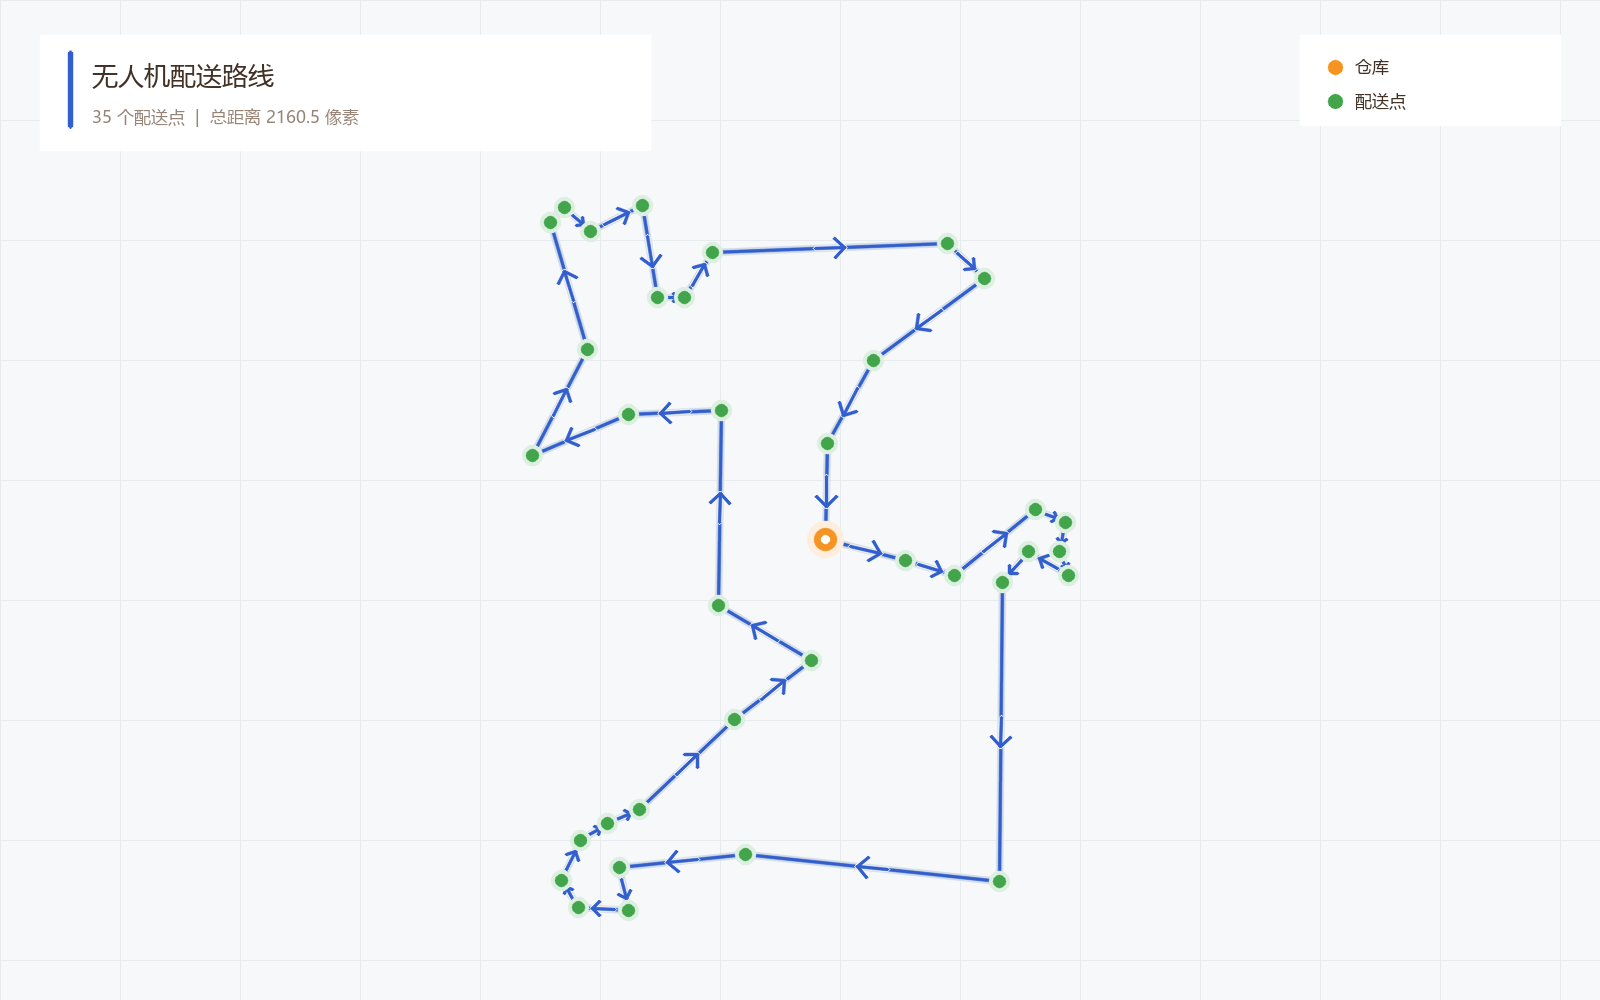
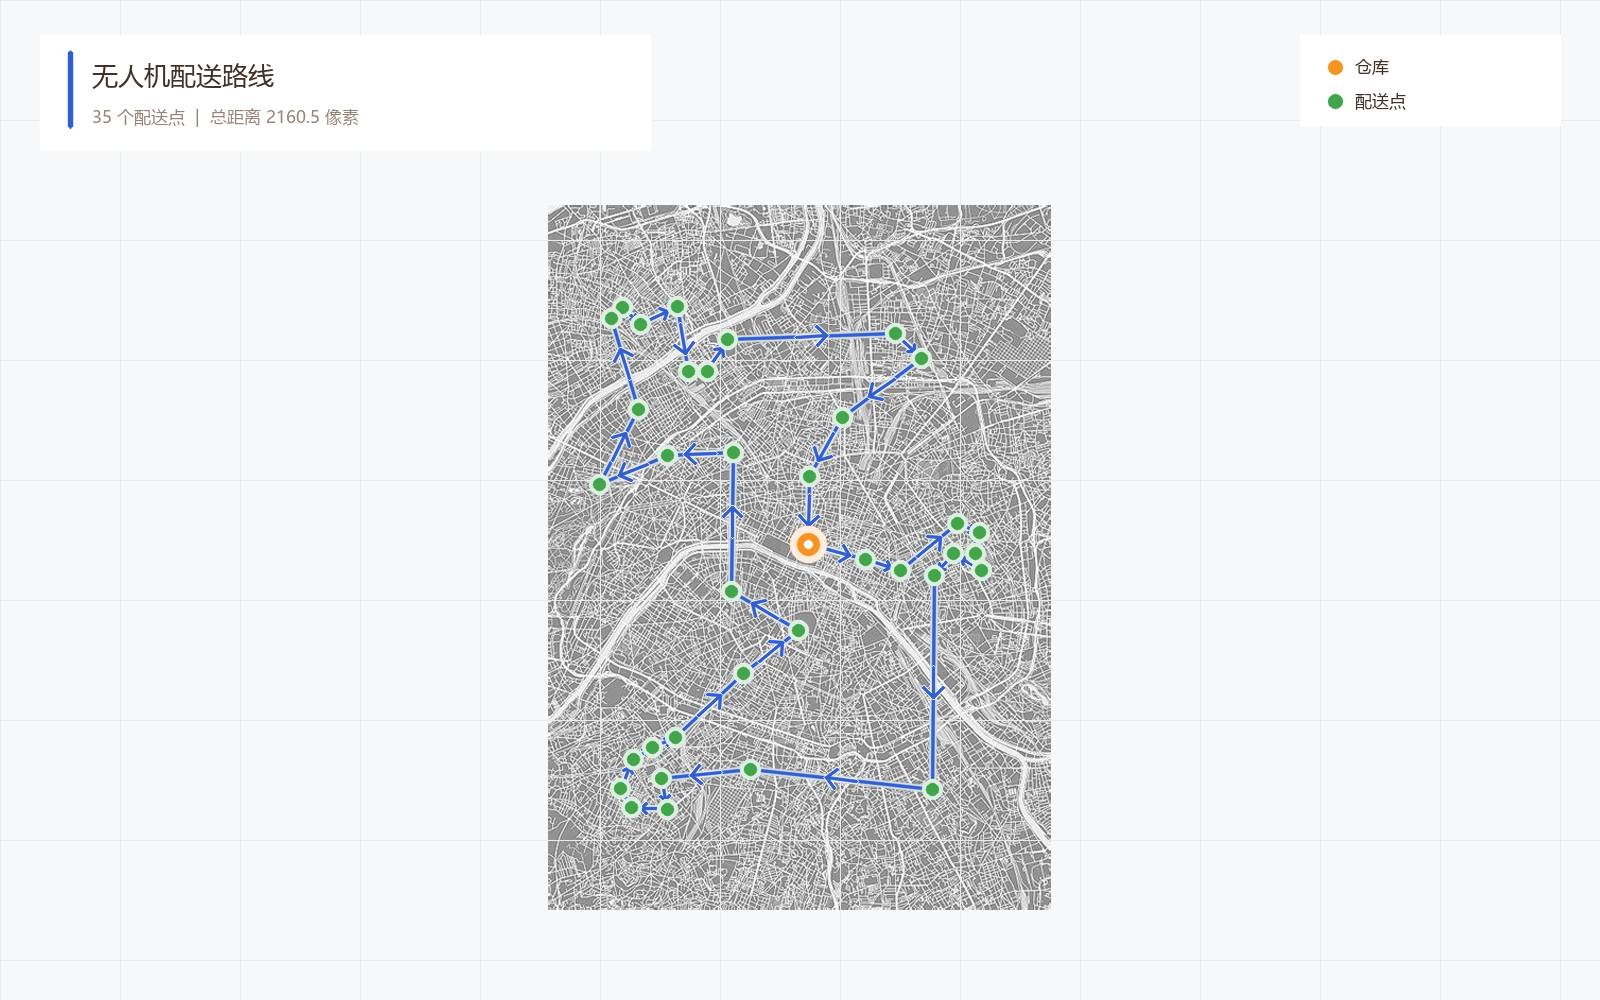
为第一题和第二题提供可视化支持

Changed region(s): [[0.3125, 0.186, 0.6875, 0.93]]

diff --git a/solver/problem_two/visualize_baseline_routes.py b/solver/problem_two/visualize_baseline_routes.py
@@ -1,0 +1,257 @@
+"""可视化敏感性分析中 alpha=1、beta=1 的基准配送路线。"""
+
+import json
+import re
+from pathlib import Path
+from typing import Any
+
+import matplotlib.pyplot as plt
+import numpy as np
+from PIL import Image, ImageEnhance
+from matplotlib.patches import FancyArrowPatch
+
+try:
+    from .resolve import MAP_SCALE_KM_PER_PIXEL
+except ImportError:
+    from resolve import MAP_SCALE_KM_PER_PIXEL
+
+
+Point = dict[str, Any]
+PROJECT_ROOT = Path(__file__).resolve().parents[2]
+POINTS_PATH = PROJECT_ROOT / "output" / "processed" / "points.json"
+MAP_PATH = PROJECT_ROOT / "others" / "input_picture.png"
+RESULTS_PATH = PROJECT_ROOT / "output" / "problems" / "two" / "sensitivity_results.txt"
+OUTPUT_PATH = PROJECT_ROOT / "output" / "problems" / "two" / "baseline_routes.png"
+ROUTE_COLORS = ("#2563eb", "#0d9488", "#f59e0b", "#e85d75", "#7c3aed")
+
+
+def load_baseline_result(results_path: Path) -> tuple[float, list[list[int]], list[float]]:
+    """读取 alpha=1、beta=1 场景的总航程、路线和单机航程。"""
+    text = results_path.read_text(encoding="utf-8")
+    blocks = re.split(r"\n\n(?=alpha=)", text)[1:]
+    for block in blocks:
+        alpha = float(re.search(r"alpha=([0-9.]+)", block).group(1))
+        beta = float(re.search(r"beta=([0-9.]+)", block).group(1))
+        if alpha != 1.0 or beta != 1.0:
+            continue
+        total = float(re.search(r"total_corrected_distance_km=([0-9.]+)", block).group(1))
+        routes = [
+            list(map(int, route.split(" -> ")))
+            for route in re.findall(r"drone_\d+_route=(.+)", block)
+        ]
+        costs = [
+            float(cost)
+            for cost in re.findall(r"drone_\d+_corrected_distance_km=([0-9.]+)", block)
+        ]
+        return total, routes, costs
+    raise ValueError("结果文件中不存在 alpha=1、beta=1 的基准场景。")
+
+
+def load_points(points_path: Path) -> tuple[Point, dict[int, Point]]:
+    """读取唯一仓库和按 ID 索引的配送点。"""
+    points: list[Point] = json.loads(points_path.read_text(encoding="utf-8"))
+    depots = [point for point in points if point.get("color") == "blue"]
+    if len(depots) != 1:
+        raise ValueError(f"应存在唯一蓝色仓库，实际数量为 {len(depots)}。")
+    return depots[0], {int(point["id"]): point for point in points}
+
+
+def draw_route(
+    axis: plt.Axes,
+    depot: Point,
+    route: list[int],
+    points: dict[int, Point],
+    color: str,
+) -> None:
+    """绘制一条带方向箭头的仓库闭环路线。"""
+    closed_route = [int(depot["id"])] + route + [int(depot["id"])]
+    for start_id, end_id in zip(closed_route, closed_route[1:]):
+        start = points[start_id]
+        end = points[end_id]
+        arrow = FancyArrowPatch(
+            (start["x_math"], start["y_math"]),
+            (end["x_math"], end["y_math"]),
+            arrowstyle="-|>",
+            mutation_scale=11,
+            linewidth=1.8,
+            color=color,
+            alpha=0.82,
+            shrinkA=7,
+            shrinkB=7,
+            connectionstyle="arc3,rad=0.015",
+            zorder=2,
+        )
+        axis.add_patch(arrow)
+
+    route_points = [points[point_id] for point_id in route]
+    axis.scatter(
+        [point["x_math"] for point in route_points],
+        [point["y_math"] for point in route_points],
+        s=58,
+        color=color,
+        edgecolor="white",
+        linewidth=1.5,
+        zorder=4,
+    )
+    for order, point in enumerate(route_points, start=1):
+        axis.text(
+            point["x_math"] + 5,
+            point["y_math"] + 5,
+            str(order),
+            fontsize=8,
+            color="#334155",
+            zorder=5,
+        )
+
+
+def create_visualization(
+    depot: Point,
+    points: dict[int, Point],
+    routes: list[list[int]],
+    costs: list[float],
+    total_cost: float,
+) -> None:
+    """创建基准多无人机路线地图与统计信息。"""
+    plt.rcParams["font.family"] = "Microsoft YaHei"
+    plt.rcParams["axes.unicode_minus"] = False
+    figure = plt.figure(figsize=(16, 10), dpi=180, facecolor="#f8fafc")
+    grid = figure.add_gridspec(
+        2,
+        2,
+        height_ratios=(0.13, 0.87),
+        width_ratios=(4.25, 1.25),
+        hspace=0.02,
+        wspace=0.06,
+    )
+    header_axis = figure.add_subplot(grid[0, :])
+    map_axis = figure.add_subplot(grid[1, 0])
+    info_axis = figure.add_subplot(grid[1, 1])
+
+    header_axis.set_facecolor("#f8fafc")
+    header_axis.axis("off")
+    header_axis.text(
+        0.025,
+        0.68,
+        "雷暴情景下的多无人机基准配送路线",
+        transform=header_axis.transAxes,
+        fontsize=23,
+        color="#0f2942",
+        fontweight="bold",
+        va="center",
+    )
+    header_axis.text(
+        0.025,
+        0.22,
+        "基于修正航程 F(i,j) 的 α=1 且 β=1 的最优方案",
+        transform=header_axis.transAxes,
+        fontsize=11,
+        color="#64748b",
+        va="center",
+    )
+    header_axis.plot(
+        [0.0, 1.0],
+        [0.02, 0.02],
+        transform=header_axis.transAxes,
+        color="#dbe4ee",
+        linewidth=1,
+    )
+
+    map_image = Image.open(MAP_PATH).convert("RGB")
+    map_image = ImageEnhance.Color(map_image).enhance(0.45)
+    map_image = ImageEnhance.Contrast(map_image).enhance(0.72)
+    map_image = ImageEnhance.Brightness(map_image).enhance(1.18)
+    map_array = np.asarray(map_image)
+    map_axis.imshow(
+        map_array,
+        extent=(0, map_image.width - 1, 0, map_image.height - 1),
+        origin="upper",
+        alpha=0.88,
+        zorder=0,
+    )
+    map_axis.imshow(
+        np.full((2, 2, 4), (1.0, 1.0, 1.0, 0.36)),
+        extent=(0, map_image.width - 1, 0, map_image.height - 1),
+        origin="lower",
+        zorder=1,
+    )
+    map_axis.set_facecolor("#ffffff")
+    map_axis.grid(color="#ffffff", linewidth=0.8, alpha=0.5)
+    map_axis.set_axisbelow(True)
+    for route, color in zip(routes, ROUTE_COLORS):
+        draw_route(map_axis, depot, route, points, color)
+
+    map_axis.scatter(
+        [depot["x_math"]],
+        [depot["y_math"]],
+        s=230,
+        marker="D",
+        color="#fb923c",
+        edgecolor="white",
+        linewidth=2.3,
+        zorder=7,
+    )
+    map_axis.text(
+        depot["x_math"] + 8,
+        depot["y_math"] + 8,
+        "仓库",
+        color="#9a3412",
+        fontsize=10,
+        fontweight="bold",
+        zorder=8,
+    )
+    map_axis.set_aspect("equal", adjustable="box")
+    map_axis.set_xlim(0, map_image.width - 1)
+    map_axis.set_ylim(0, map_image.height - 1)
+    map_axis.set_xlabel("横向坐标 / 像素", color="#64748b", labelpad=10)
+    map_axis.set_ylabel("纵向坐标 / 像素", color="#64748b", labelpad=10)
+    map_axis.tick_params(colors="#94a3b8")
+    for spine in map_axis.spines.values():
+        spine.set_color("#e2e8f0")
+
+    info_axis.set_facecolor("#f8fafc")
+    info_axis.axis("off")
+    info_axis.text(0.03, 0.94, "基准方案", fontsize=21, fontweight="bold", color="#0f2942")
+    info_axis.text(0.03, 0.885, "α = 1.0   β = 1.0", fontsize=11, color="#64748b")
+    info_axis.text(
+        0.03,
+        0.845,
+        f"比例尺 L = {MAP_SCALE_KM_PER_PIXEL:.3f} km/像素",
+        fontsize=10,
+        color="#64748b",
+    )
+    info_axis.text(0.03, 0.80, "总修正航程", fontsize=11, color="#64748b")
+    info_axis.text(0.03, 0.735, f"{total_cost:.2f} km", fontsize=25, fontweight="bold", color="#0f2942")
+    info_axis.plot([0.03, 0.95], [0.68, 0.68], color="#dbe4ee", linewidth=1)
+
+    y = 0.62
+    for index, (route, cost, color) in enumerate(zip(routes, costs, ROUTE_COLORS), start=1):
+        info_axis.scatter([0.06], [y], s=82, color=color, edgecolor="white", linewidth=1.2)
+        info_axis.text(0.13, y + 0.018, f"无人机 {index}", fontsize=11, fontweight="bold", color="#243b53")
+        info_axis.text(0.13, y - 0.018, f"7 个配送点   {cost:.2f} km", fontsize=9.5, color="#78909f")
+        y -= 0.105
+
+    info_axis.text(
+        0.03,
+        0.055,
+        "数字表示各无人机的访问顺序\n箭头表示实际飞行方向",
+        fontsize=9.5,
+        color="#78909f",
+        linespacing=1.55,
+    )
+    info_axis.set_xlim(0, 1)
+    info_axis.set_ylim(0, 1)
+    OUTPUT_PATH.parent.mkdir(parents=True, exist_ok=True)
+    figure.savefig(OUTPUT_PATH, bbox_inches="tight", facecolor=figure.get_facecolor())
+    plt.close(figure)
+
+
+def main() -> None:
+    """读取基准场景并保存路线可视化。"""
+    total_cost, routes, costs = load_baseline_result(RESULTS_PATH)
+    depot, points = load_points(POINTS_PATH)
+    create_visualization(depot, points, routes, costs, total_cost)
+    print(f"Saved baseline route visualization to: {OUTPUT_PATH}")
+
+
+if __name__ == "__main__":
+    main()

diff --git a/solver/problem_one/visualize.py b/solver/problem_one/visualize.py
@@ -10,6 +10,7 @@ from resolve import INPUT_POINT_PATH, PROJECT_ROOT, Point, load_points, solve_ts
 
 
 OUTPUT_PATH = PROJECT_ROOT / "output" / "problems" / "one" / "visual.png"
+MAP_PATH = PROJECT_ROOT / "others" / "input_picture.png"
 CANVAS_WIDTH = 1600
 CANVAS_HEIGHT = 1000
 HORIZONTAL_PADDING = 110
@@ -29,24 +30,25 @@ DELIVERY = (75, 165, 66)
 
 
 def project_points(points: list[Point]) -> list[tuple[int, int]]:
-    """Scale mathematical coordinates into the drawable canvas area."""
-    xs = [float(point["x_math"]) for point in points]
-    ys = [float(point["y_math"]) for point in points]
-    min_x, max_x = min(xs), max(xs)
-    min_y, max_y = min(ys), max(ys)
-    scale_x = (CANVAS_WIDTH - 2 * HORIZONTAL_PADDING) / max(max_x - min_x, 1.0)
-    scale_y = (CANVAS_HEIGHT - TOP_PADDING - BOTTOM_PADDING) / max(max_y - min_y, 1.0)
+    """Project mathematical coordinates with the same transform as the map."""
+    map_image = cv2.imdecode(np.fromfile(MAP_PATH, dtype=np.uint8), cv2.IMREAD_COLOR)
+    if map_image is None:
+        raise FileNotFoundError(f"Cannot read map image: {MAP_PATH}")
+    map_height, map_width = map_image.shape[:2]
+    scale_x = (CANVAS_WIDTH - 2 * HORIZONTAL_PADDING) / map_width
+    scale_y = (CANVAS_HEIGHT - TOP_PADDING - BOTTOM_PADDING) / map_height
     scale = min(scale_x, scale_y)
-    offset_x = (CANVAS_WIDTH - scale * (max_x - min_x)) / 2 - scale * min_x
-    offset_y = (
-        TOP_PADDING
-        + (CANVAS_HEIGHT - TOP_PADDING - BOTTOM_PADDING - scale * (max_y - min_y)) / 2
-        + scale * max_y
-    )
+    offset_x = (CANVAS_WIDTH - scale * map_width) / 2
+    offset_y = TOP_PADDING + (
+        CANVAS_HEIGHT - TOP_PADDING - BOTTOM_PADDING - scale * map_height
+    ) / 2
 
     return [
-        (round(scale * x + offset_x), round(offset_y - scale * y))
-        for x, y in zip(xs, ys)
+        (
+            round(offset_x + scale * float(point["x_math"])),
+            round(offset_y + scale * ((map_height - 1) - float(point["y_math"]))),
+        )
+        for point in points
     ]
 
 
@@ -56,6 +58,34 @@ def draw_grid(canvas: np.ndarray) -> None:
         cv2.line(canvas, (x, 0), (x, CANVAS_HEIGHT), GRID, 1)
     for y in range(0, CANVAS_HEIGHT, 120):
         cv2.line(canvas, (0, y), (CANVAS_WIDTH, y), GRID, 1)
+
+
+def draw_map_background(canvas: np.ndarray) -> None:
+    """Draw a softened map background aligned with the mathematical coordinates."""
+    encoded = np.fromfile(MAP_PATH, dtype=np.uint8)
+    map_image = cv2.imdecode(encoded, cv2.IMREAD_COLOR)
+    if map_image is None:
+        raise FileNotFoundError(f"Cannot read map image: {MAP_PATH}")
+
+    map_height, map_width = map_image.shape[:2]
+    scale = min(
+        (CANVAS_WIDTH - 2 * HORIZONTAL_PADDING) / map_width,
+        (CANVAS_HEIGHT - TOP_PADDING - BOTTOM_PADDING) / map_height,
+    )
+    output_width = round(map_width * scale)
+    output_height = round(map_height * scale)
+    map_image = cv2.resize(map_image, (output_width, output_height), interpolation=cv2.INTER_CUBIC)
+    gray = cv2.cvtColor(map_image, cv2.COLOR_BGR2GRAY)
+    softened = cv2.cvtColor(gray, cv2.COLOR_GRAY2BGR)
+    softened = cv2.addWeighted(map_image, 0.35, softened, 0.65, 0)
+    white = np.full_like(softened, 255)
+    softened = cv2.addWeighted(softened, 0.58, white, 0.42, 0)
+    offset_x = round((CANVAS_WIDTH - output_width) / 2)
+    offset_y = round(
+        TOP_PADDING
+        + (CANVAS_HEIGHT - TOP_PADDING - BOTTOM_PADDING - output_height) / 2
+    )
+    canvas[offset_y : offset_y + output_height, offset_x : offset_x + output_width] = softened
 
 
 def draw_route(
@@ -137,6 +167,7 @@ def main() -> None:
     screen_points = project_points([depot] + deliveries)
 
     canvas = np.full((CANVAS_HEIGHT, CANVAS_WIDTH, 3), BACKGROUND, dtype=np.uint8)
+    draw_map_background(canvas)
     draw_grid(canvas)
     draw_route(canvas, route, screen_points)
     draw_points(canvas, screen_points)